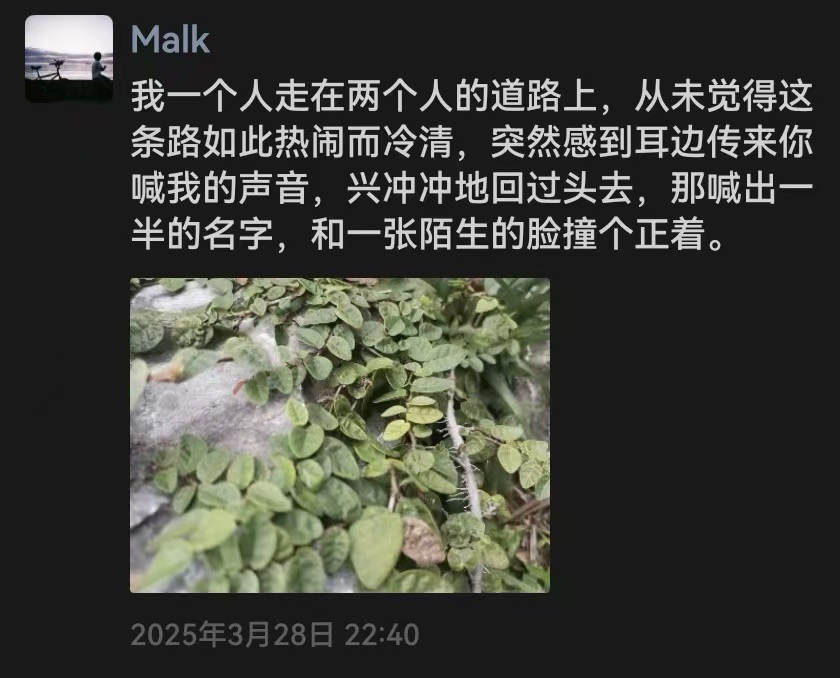
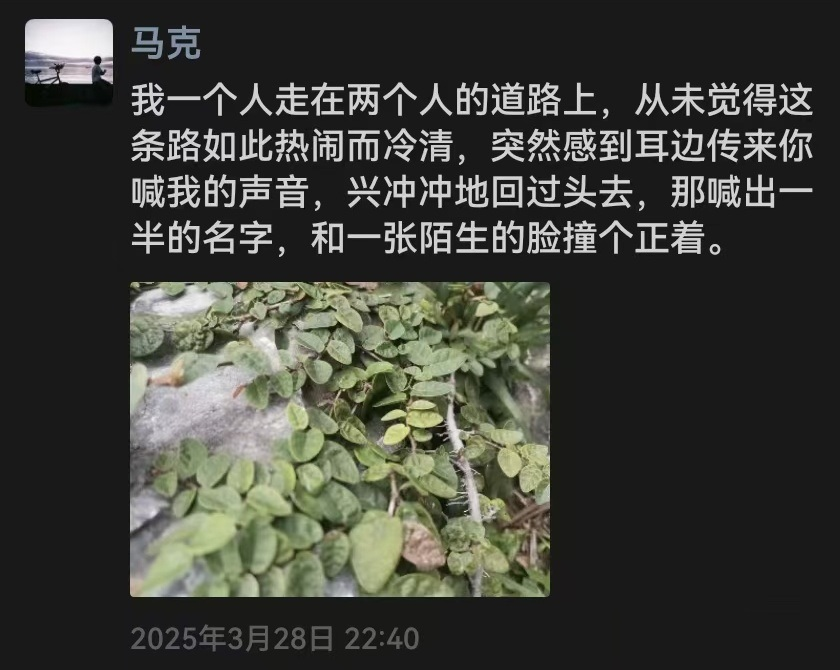
第39章改名毕业，丧气话句补'如果'

Changed region(s): [[0.1548, 0.1194, 0.9905, 0.9851], [0.031, 0.0299, 0.2476, 0.1493], [0.031, 0.0, 0.1238, 0.0299]]

diff --git a/docs/第39章_毕业.md b/docs/第39章_毕业.md
@@ -1,4 +1,4 @@
-# 第39章 红色感叹号
+# 第39章 毕业
 
 > "你们只是交流得太少了。"
 >
@@ -30,7 +30,7 @@
 
 我说，只是我们不相配而已。她没问题，我也觉得自己没有问题。她肯定可以找到更好的。
 
-那天晚上，我又说了很多丧气话。说大家都挺喜欢我的，那估计最讨厌我的人，就是我自己了。说我觉得我这种人活着对世界没有什么意义。说我一直都是如此，从初一开始吧。只是觉得今天少了一位让我活着有意义的人而已。但我肯定还是不会想不开的，起码我还有爸爸妈妈。
+那天晚上，我又说了很多丧气话。说如果大家都挺喜欢我的话，那估计最讨厌我的人，就是我自己了。说我觉得我这种人活着对世界没有什么意义。说我一直都是如此，从初一开始吧。只是觉得今天少了一位让我活着有意义的人而已。但我肯定还是不会想不开的，起码我还有爸爸妈妈。
 
 那些话，我说得又快又乱，像攒了很多年，终于找到一个出口。林知琳没有打断我，等我说完，才开口。
 
